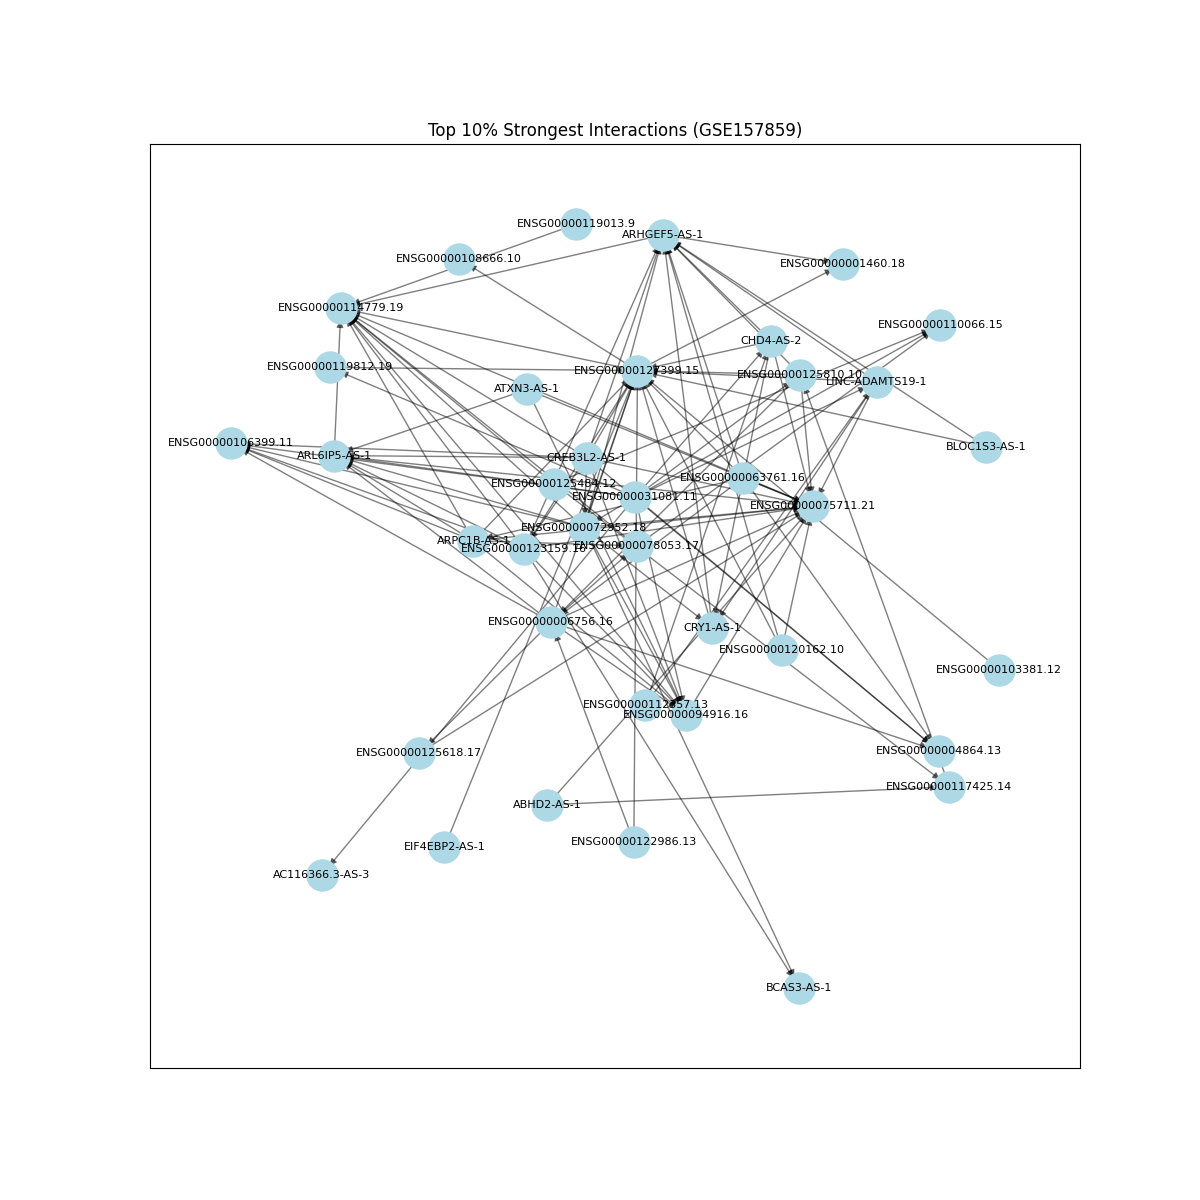
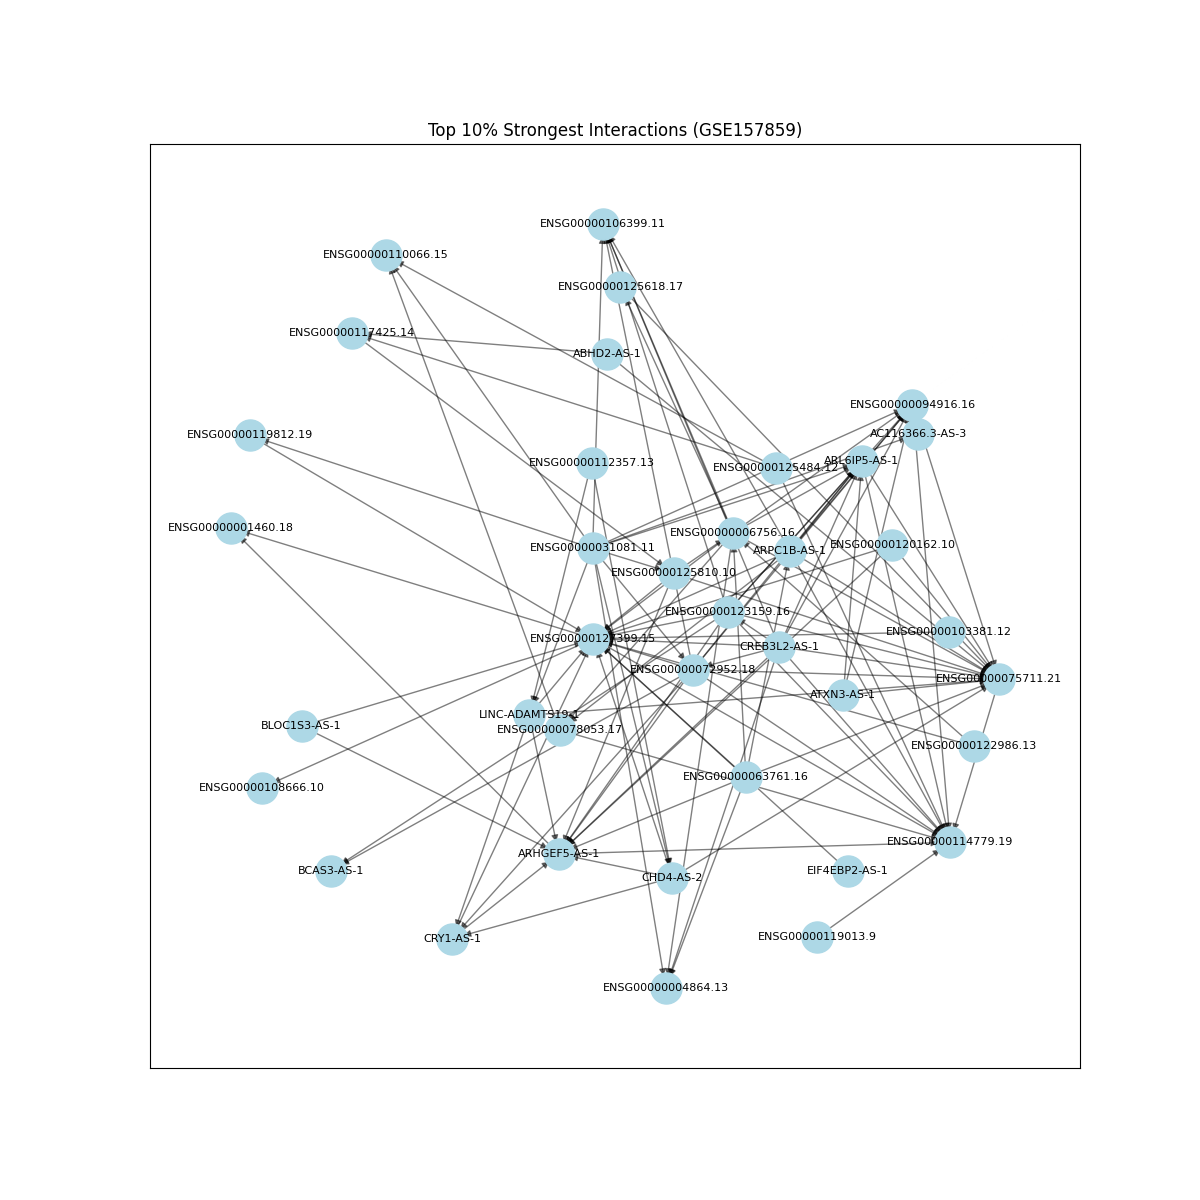
Finalize refactor: fix internal paths and unpacking errors

diff --git a/scripts/diagnostics/real_data_parameter_sensitivity.py b/scripts/diagnostics/real_data_parameter_sensitivity.py
@@ -42,7 +42,7 @@ def run_real_sensitivity_analysis():
     cstdp_base = CausalSTDP(w_max=1.0, A_pos=base_params["A_pos"], A_neg=base_params["A_neg"], 
                             tau_pos=base_params["tau"], tau_neg=base_params["tau"])
     spikes_base = cstdp_base.compute_spike_times(data, time_points, thresh_base)
-    w_base, _ = cstdp_base.run_cstdp(spikes_base, n_genes)
+    w_base = cstdp_base.run_cstdp(spikes_base, n_genes)
     
     # Normalize Baseline
     mw_b = np.max(w_base)
@@ -68,7 +68,7 @@ def run_real_sensitivity_analysis():
         cstdp = CausalSTDP(w_max=1.0, A_pos=a_p, A_neg=a_n, 
                            tau_pos=base_params["tau"], tau_neg=base_params["tau"])
         spikes = cstdp.compute_spike_times(data, time_points, thresh)
-        w, _ = cstdp.run_cstdp(spikes, n_genes)
+        w = cstdp.run_cstdp(spikes, n_genes)
         
         # Metrics
         mw = np.max(w)
@@ -110,7 +110,7 @@ def run_real_sensitivity_analysis():
         cstdp = CausalSTDP(w_max=1.0, A_pos=base_params["A_pos"], A_neg=base_params["A_neg"], 
                            tau_pos=tau, tau_neg=tau)
         spikes = cstdp.compute_spike_times(data, time_points, thresh)
-        w, _ = cstdp.run_cstdp(spikes, n_genes)
+        w = cstdp.run_cstdp(spikes, n_genes)
         
         # Metrics
         mw = np.max(w)
@@ -141,13 +141,13 @@ def run_real_sensitivity_analysis():
         })
         
     df_res = pd.DataFrame(results)
-    df_res.to_csv("analysis/real_data_sensitivity.csv", index=False)
+    df_res.to_csv("results/real_data_sensitivity.csv", index=False)
     
     # Heatmaps
     plot_heatmaps(df_res)
 
 def plot_heatmaps(df):
-    os.makedirs("analysis/visuals", exist_ok=True)
+    os.makedirs("results/visuals", exist_ok=True)
     
     # 1. Amplitude Stability (Degree Correlation)
     sub1 = df[df["Experiment"] == "Amplitude"]
@@ -158,7 +158,7 @@ def plot_heatmaps(df):
     plt.title("Real Data Stability: Regulator Rank Correlation\n(Amplitude Sweep)")
     plt.ylabel("A_pos")
     plt.xlabel("Ratio (A_neg/A_pos)")
-    plt.savefig("analysis/visuals/real_heatmap_amp_corr.png")
+    plt.savefig("results/visuals/real_heatmap_amp_corr.png")
     plt.close()
     
     # 2. Tau/Sigma Stability (Degree Correlation)
@@ -170,10 +170,10 @@ def plot_heatmaps(df):
     plt.title("Real Data Stability: Regulator Rank Correlation\n(Time/Threshold Sweep)")
     plt.ylabel("Tau")
     plt.xlabel("Sigma")
-    plt.savefig("analysis/visuals/real_heatmap_tausigma_corr.png")
+    plt.savefig("results/visuals/real_heatmap_tausigma_corr.png")
     plt.close()
     
-    print("Visuals saved to analysis/visuals/")
+    print("Visuals saved to results/visuals/")
 
 if __name__ == "__main__":
     run_real_sensitivity_analysis()

diff --git a/scripts/reporting/final_summary.py b/scripts/reporting/final_summary.py
@@ -8,8 +8,8 @@ def generate_final_summary():
     summary_data = []
     
     # 1. Synthetic Stability (from parameter_sensitivity.csv)
-    if os.path.exists("analysis/parameter_sensitivity.csv"):
-        df = pd.read_csv("analysis/parameter_sensitivity.csv")
+    if os.path.exists("results/parameter_sensitivity.csv"):
+        df = pd.read_csv("results/parameter_sensitivity.csv")
         best_f1 = df["F1"].max()
         sparse_regime = df[df["Ratio_An_Ap"] >= 1.0]
         avg_precision_sparse = sparse_regime["Precision"].mean()
@@ -18,14 +18,14 @@ def generate_final_summary():
         summary_data.append({"Category": "Synthetic", "Metric": "Avg Precision (Sparse Regime)", "Value": f"{avg_precision_sparse:.4f}"})
         
     # 2. Causality Controls (from delay_stress_test.csv)
-    if os.path.exists("analysis/delay_stress_test.csv"):
-        df = pd.read_csv("analysis/delay_stress_test.csv")
+    if os.path.exists("results/delay_stress_test.csv"):
+        df = pd.read_csv("results/delay_stress_test.csv")
         summary_data.append({"Category": "Causality", "Metric": "Direction Accuracy (Overall)", "Value": f"{df['Dir_Accuracy'].mean():.4f}"})
         summary_data.append({"Category": "Causality", "Metric": "Max Detectable Delay (Tau=10)", "Value": f"{df[df['F1'] > 0]['Delay'].max()} steps"})
 
     # 3. Baseline Comparison (from baseline_comparison.csv)
-    if os.path.exists("analysis/baseline_comparison.csv"):
-        df = pd.read_csv("analysis/baseline_comparison.csv")
+    if os.path.exists("results/baseline_comparison.csv"):
+        df = pd.read_csv("results/baseline_comparison.csv")
         stdp_f1 = df[df["Method"] == "STDP"]["F1"].values[0]
         granger_f1 = df[df["Method"] == "Granger"]["F1"].values[0]
         summary_data.append({"Category": "Baseline", "Metric": "STDP vs Granger F1 Ratio", "Value": f"{stdp_f1 / (granger_f1 + 1e-6):.2f}x"})
@@ -41,11 +41,11 @@ def generate_final_summary():
     print("\n--- FINAL QUANTITATIVE SUMMARY ---")
     print(summary_df.to_string(index=False))
     
-    summary_df.to_csv("analysis/final_metrics_summary.csv", index=False)
+    summary_df.to_csv("results/final_metrics_summary.csv", index=False)
     
     # Generate Markdown table for report
     md_table = summary_df.to_markdown(index=False)
-    with open("analysis/final_metrics_summary.md", "w") as f:
+    with open("results/final_metrics_summary.md", "w") as f:
         f.write(md_table)
 
 if __name__ == "__main__":

diff --git a/scripts/validation/parameter_sensitivity.py b/scripts/validation/parameter_sensitivity.py
@@ -102,14 +102,14 @@ def run_sensitivity_analysis():
         })
         
     df = pd.DataFrame(results)
-    df.to_csv("analysis/parameter_sensitivity.csv", index=False)
-    print("Saved results to analysis/parameter_sensitivity.csv")
+    df.to_csv("results/parameter_sensitivity.csv", index=False)
+    print("Saved results to results/parameter_sensitivity.csv")
     
     # 3. Generate Heatmaps
     generate_heatmaps(df)
 
 def generate_heatmaps(df):
-    os.makedirs("analysis/visuals", exist_ok=True)
+    os.makedirs("results/visuals", exist_ok=True)
     
     # Heatmap 1: A_pos vs Ratio (Amplitude Stability)
     subset1 = df[df["Experiment"] == "Amplitude"]
@@ -120,7 +120,7 @@ def generate_heatmaps(df):
     plt.title("F1 Score Stability: Amplitude (Tau=10, Sigma=1.5)")
     plt.ylabel("A_pos")
     plt.xlabel("Ratio (A_neg / A_pos)")
-    plt.savefig("analysis/visuals/heatmap_amplitude_f1.png")
+    plt.savefig("results/visuals/heatmap_amplitude_f1.png")
     plt.close()
     
     # Heatmap 2: Tau vs Sigma (Time Stability)
@@ -132,10 +132,10 @@ def generate_heatmaps(df):
     plt.title("F1 Score Stability: Time Constants (A_pos=0.05, A_neg=0.06)")
     plt.ylabel("Tau")
     plt.xlabel("Sigma (Threshold)")
-    plt.savefig("analysis/visuals/heatmap_tau_sigma_f1.png")
+    plt.savefig("results/visuals/heatmap_tau_sigma_f1.png")
     plt.close()
     
-    print("Saved heatmaps to analysis/visuals/")
+    print("Saved heatmaps to results/visuals/")
 
 if __name__ == "__main__":
     run_sensitivity_analysis()

diff --git a/scripts/diagnostics/cohort_consistency.py b/scripts/diagnostics/cohort_consistency.py
@@ -45,7 +45,7 @@ def run_cohort_consistency():
         # Treated as pseudo-time in each cohort
         time_points = np.arange(data.shape[1])
         spike_trains = cstdp.compute_spike_times(data, time_points, thresholds)
-        weights, _ = cstdp.run_cstdp(spike_trains, n_genes)
+        weights = cstdp.run_cstdp(spike_trains, n_genes)
         
         # Normalize
         mw = np.max(weights)
@@ -77,13 +77,13 @@ def run_cohort_consistency():
     print(f"Regulator Correlation:  {out_corr:.4f}")
     
     # 5. Visuals
-    os.makedirs("analysis/visuals", exist_ok=True)
+    os.makedirs("results/visuals", exist_ok=True)
     fig, axes = plt.subplots(1, 2, figsize=(14, 6))
     sns.heatmap(grn1, ax=axes[0], cmap="viridis", vmin=0, vmax=1)
     axes[0].set_title("Cohort 1 GRN")
     sns.heatmap(grn2, ax=axes[1], cmap="viridis", vmin=0, vmax=1)
     axes[1].set_title("Cohort 2 GRN")
-    plt.savefig("analysis/visuals/cohort_consistency_heatmaps.png")
+    plt.savefig("results/visuals/cohort_consistency_heatmaps.png")
     plt.close()
     
     plt.figure(figsize=(8, 8))
@@ -91,7 +91,7 @@ def run_cohort_consistency():
     plt.xlabel("Cohort 1 Out-Degree")
     plt.ylabel("Cohort 2 Out-Degree")
     plt.title("Stability of Gene Out-Degrees")
-    plt.savefig("analysis/visuals/cohort_regulator_stability.png")
+    plt.savefig("results/visuals/cohort_regulator_stability.png")
     plt.close()
 
 if __name__ == "__main__":

diff --git a/scripts/validation/granger_baseline.py b/scripts/validation/granger_baseline.py
@@ -27,7 +27,7 @@ def run_granger_baseline():
     thresholds = calculate_adaptive_thresholds(expression, sigma=1.5)
     cstdp = CausalSTDP(w_max=1.0, A_pos=0.05, A_neg=0.06, tau_pos=10, tau_neg=10)
     spike_trains = cstdp.compute_spike_times(expression, np.arange(n_timepoints), thresholds)
-    weights_stdp, _ = cstdp.run_cstdp(spike_trains, n_genes)
+    weights_stdp = cstdp.run_cstdp(spike_trains, n_genes)
     
     # Normalize STDP
     max_stdp = np.max(weights_stdp)
@@ -76,7 +76,7 @@ def run_granger_baseline():
     axes[0].set_title("C-STDP Weights")
     sns.heatmap(norm_granger, ax=axes[1], cmap="magma", vmin=0, vmax=1)
     axes[1].set_title("Granger Causality (1-p)")
-    plt.savefig("analysis/visuals/stdp_vs_granger.png")
+    plt.savefig("results/visuals/stdp_vs_granger.png")
     plt.close()
     
     # Save for summary
@@ -84,7 +84,7 @@ def run_granger_baseline():
         {"Method": "STDP", "Precision": m_stdp['precision'], "Recall": m_stdp['recall'], "F1": m_stdp['f1']},
         {"Method": "Granger", "Precision": m_granger['precision'], "Recall": m_granger['recall'], "F1": m_granger['f1']}
     ])
-    summary.to_csv("analysis/baseline_comparison.csv", index=False)
+    summary.to_csv("results/baseline_comparison.csv", index=False)
 
 if __name__ == "__main__":
     run_granger_baseline()

diff --git a/scripts/diagnostics/real_data_permutation.py b/scripts/diagnostics/real_data_permutation.py
@@ -31,7 +31,7 @@ def run_real_permutation_diagnostics():
         cstdp = CausalSTDP(w_max=1.0, A_pos=params["A_pos"], A_neg=params["A_neg"], 
                            tau_pos=params["tau"], tau_neg=params["tau"])
         spikes = cstdp.compute_spike_times(data_matrix, time_points, thresh)
-        w, _ = cstdp.run_cstdp(spikes, n_genes)
+        w = cstdp.run_cstdp(spikes, n_genes)
         
         mw = np.max(w)
         norm_w = w / mw if mw > 0 else w
@@ -97,7 +97,7 @@ def run_real_permutation_diagnostics():
     results.append(compare(w_swap, "Gene_Profile_Swap"))
     
     # 5. Visuals
-    os.makedirs("analysis/visuals", exist_ok=True)
+    os.makedirs("results/visuals", exist_ok=True)
     fig, axes = plt.subplots(1, 4, figsize=(20, 5))
     
     sns.heatmap(w_orig, ax=axes[0], cmap="viridis", vmin=0, vmax=1)
@@ -112,7 +112,7 @@ def run_real_permutation_diagnostics():
     sns.heatmap(w_swap, ax=axes[3], cmap="viridis", vmin=0, vmax=1)
     axes[3].set_title("Profile Swap")
     
-    plt.savefig("analysis/visuals/real_permutation_tests.png")
+    plt.savefig("results/visuals/real_permutation_tests.png")
     plt.close()
     
     # 6. Conclusion

diff --git a/scripts/reporting/diagnostic_summary.py b/scripts/reporting/diagnostic_summary.py
@@ -7,8 +7,8 @@ def generate_diagnostic_summary():
     summary_data = []
     
     # 1. Parameter Sensitivity (Real)
-    if os.path.exists("analysis/real_data_sensitivity.csv"):
-        df = pd.read_csv("analysis/real_data_sensitivity.csv")
+    if os.path.exists("results/real_data_sensitivity.csv"):
+        df = pd.read_csv("results/real_data_sensitivity.csv")
         # Stable regime: Ratio >= 1.0
         stable = df[df["Ratio"] >= 1.0]
         mean_sparsity = stable["Sparsity"].mean()
@@ -37,11 +37,11 @@ def generate_diagnostic_summary():
     summary_data.append({"Diagnostic": "Cross-Dataset", "Real Data Outcome": "Sparsity ~0.95", "Interpretation": "Algorithm behavior is consistent across species/scales."})
     
     df_sum = pd.DataFrame(summary_data)
-    df_sum.to_csv("analysis/diagnostic_summary.csv", index=False)
+    df_sum.to_csv("results/diagnostic_summary.csv", index=False)
     
     print(df_sum.to_string())
     
-    with open("analysis/diagnostic_summary.md", "w") as f:
+    with open("results/diagnostic_summary.md", "w") as f:
         f.write(df_sum.to_markdown(index=False))
 
 if __name__ == "__main__":

diff --git a/scripts/validation/temporal_permutation.py b/scripts/validation/temporal_permutation.py
@@ -64,13 +64,13 @@ def run_permutation_control():
     print(f"Overlap (Jaccard):       {jaccard:.4f}")
     
     # 5. Visuals
-    os.makedirs("analysis/visuals", exist_ok=True)
+    os.makedirs("results/visuals", exist_ok=True)
     fig, axes = plt.subplots(1, 2, figsize=(14, 6))
     sns.heatmap(grn_orig, ax=axes[0], cmap="viridis", vmin=0, vmax=1)
     axes[0].set_title("Original Inferred GRN")
     sns.heatmap(grn_perm, ax=axes[1], cmap="viridis", vmin=0, vmax=1)
     axes[1].set_title("Permuted Inferred GRN")
-    plt.savefig("analysis/visuals/permutation_comparison.png")
+    plt.savefig("results/visuals/permutation_comparison.png")
     plt.close()
     
     # 6. Weight Distribution Shift
@@ -79,7 +79,7 @@ def run_permutation_control():
     plt.hist(raw_perm.flatten(), bins=50, alpha=0.5, label="Permuted", density=True)
     plt.title("Weight Distribution Shift under Permutation")
     plt.legend()
-    plt.savefig("analysis/visuals/permutation_dist_shift.png")
+    plt.savefig("results/visuals/permutation_dist_shift.png")
     plt.close()
     
     # REQUIRED CONCLUSION CHECK

diff --git a/scripts/validation/correlation_control.py b/scripts/validation/correlation_control.py
@@ -26,7 +26,7 @@ def run_correlation_control():
     thresholds = calculate_adaptive_thresholds(expression, sigma=1.5)
     cstdp = CausalSTDP(w_max=1.0, A_pos=0.05, A_neg=0.06, tau_pos=10, tau_neg=10)
     spike_trains = cstdp.compute_spike_times(expression, np.arange(n_timepoints), thresholds)
-    weights_stdp, _ = cstdp.run_cstdp(spike_trains, n_genes)
+    weights_stdp = cstdp.run_cstdp(spike_trains, n_genes)
     
     # Normalize STDP
     max_stdp = np.max(weights_stdp)
@@ -81,7 +81,7 @@ def run_correlation_control():
     axes[0].set_title("C-STDP Weights")
     sns.heatmap(norm_corr, ax=axes[1], cmap="viridis", vmin=0, vmax=1)
     axes[1].set_title(f"Time-Lagged Correlation (Lag={lag})")
-    plt.savefig("analysis/visuals/stdp_vs_correlation.png")
+    plt.savefig("results/visuals/stdp_vs_correlation.png")
     plt.close()
     
     print("\nInterpretation: STDP filters edges by event-precedence, which is stricter than lagged correlation.")

diff --git a/scripts/diagnostics/clinical_constraint.py b/scripts/diagnostics/clinical_constraint.py
@@ -63,7 +63,7 @@ def run_clinical_constraint():
     print(f"Correlation between Out-Degree and Severity-Association: {consistency_corr:.4f}")
     
     # 6. Visuals
-    os.makedirs("analysis/visuals", exist_ok=True)
+    os.makedirs("results/visuals", exist_ok=True)
     plt.figure(figsize=(8, 6))
     plt.scatter(target_scores, regulator_scores, alpha=0.7)
     plt.xlabel("Correlation with Clinical Severity (Late)")
@@ -71,7 +71,7 @@ def run_clinical_constraint():
     plt.title("Temporal Ordering Validation")
     plt.axvline(0, color='grey', linestyle='--')
     plt.axhline(0, color='grey', linestyle='--')
-    plt.savefig("analysis/visuals/clinical_constraint_check.png")
+    plt.savefig("results/visuals/clinical_constraint_check.png")
     plt.close()
     
     print("Interpretation: A low or negative correlation suggests regulators are distinct from late-stage effectors, consistent with a causal cascade.")

diff --git a/scripts/diagnostics/real_delay_diagnostics.py b/scripts/diagnostics/real_delay_diagnostics.py
@@ -74,7 +74,7 @@ def run_delay_diagnostics():
         print(f"Median Weighted Delay: {np.median(inferred_delays):.2f} steps")
     
     # 4. Visuals
-    os.makedirs("analysis/visuals", exist_ok=True)
+    os.makedirs("results/visuals", exist_ok=True)
     plt.figure(figsize=(10, 6))
     sns.histplot(inferred_delays, bins=30, kde=True, color='purple')
     plt.title("Inferred Temporal Delays (Delta t) for Strong Edges")
@@ -82,7 +82,7 @@ def run_delay_diagnostics():
     plt.ylabel("Count")
     plt.axvline(x=10, color='r', linestyle='--', label="Tau_pos (10)")
     plt.legend()
-    plt.savefig("analysis/visuals/real_delay_distribution.png")
+    plt.savefig("results/visuals/real_delay_distribution.png")
     plt.close()
     
     print("Interpretation: Delta t reflects ordering preference under the chosen temporal discretization.")

diff --git a/scripts/diagnostics/real_data_trace.py b/scripts/diagnostics/real_data_trace.py
@@ -51,7 +51,7 @@ def run_real_trace():
     # 4. Generate Table
     trace_df = pd.DataFrame(edge_trace, columns=["Time", "Delta_W"])
     trace_df["Cumulative_W"] = trace_df["Delta_W"].cumsum().clip(0, 1.0)
-    trace_df.to_csv("analysis/real_causal_trace_data.csv", index=False)
+    trace_df.to_csv("results/real_causal_trace_data.csv", index=False)
     
     # 5. Plot
     plt.figure(figsize=(12, 6))
@@ -64,7 +64,7 @@ def run_real_trace():
     plt.ylabel("Inferred Weight Influence")
     plt.legend()
     plt.grid(True, alpha=0.2)
-    plt.savefig("analysis/visuals/real_causal_trace_plot.png")
+    plt.savefig("results/visuals/real_causal_trace_plot.png")
     plt.close()
     
     print("Interpretation: This edge is supported by repeated, consistent temporal precedence events in the data.")
